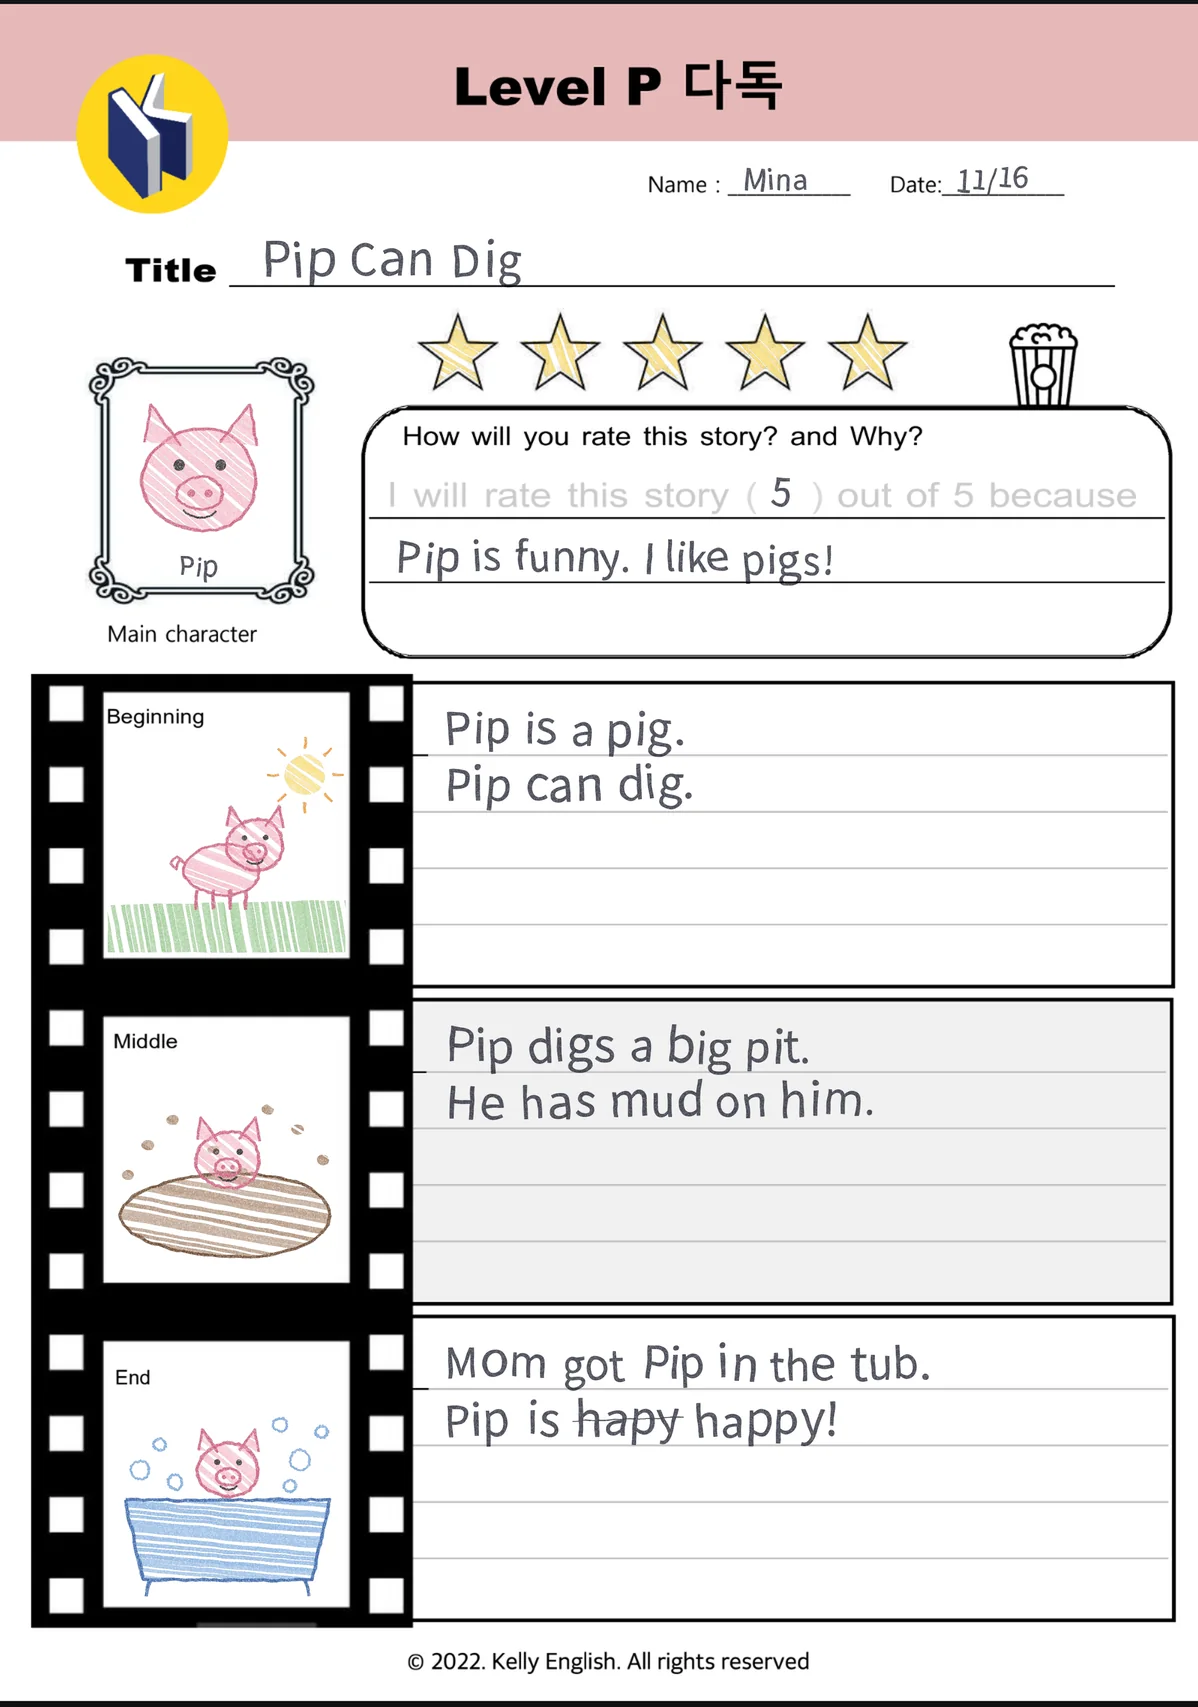
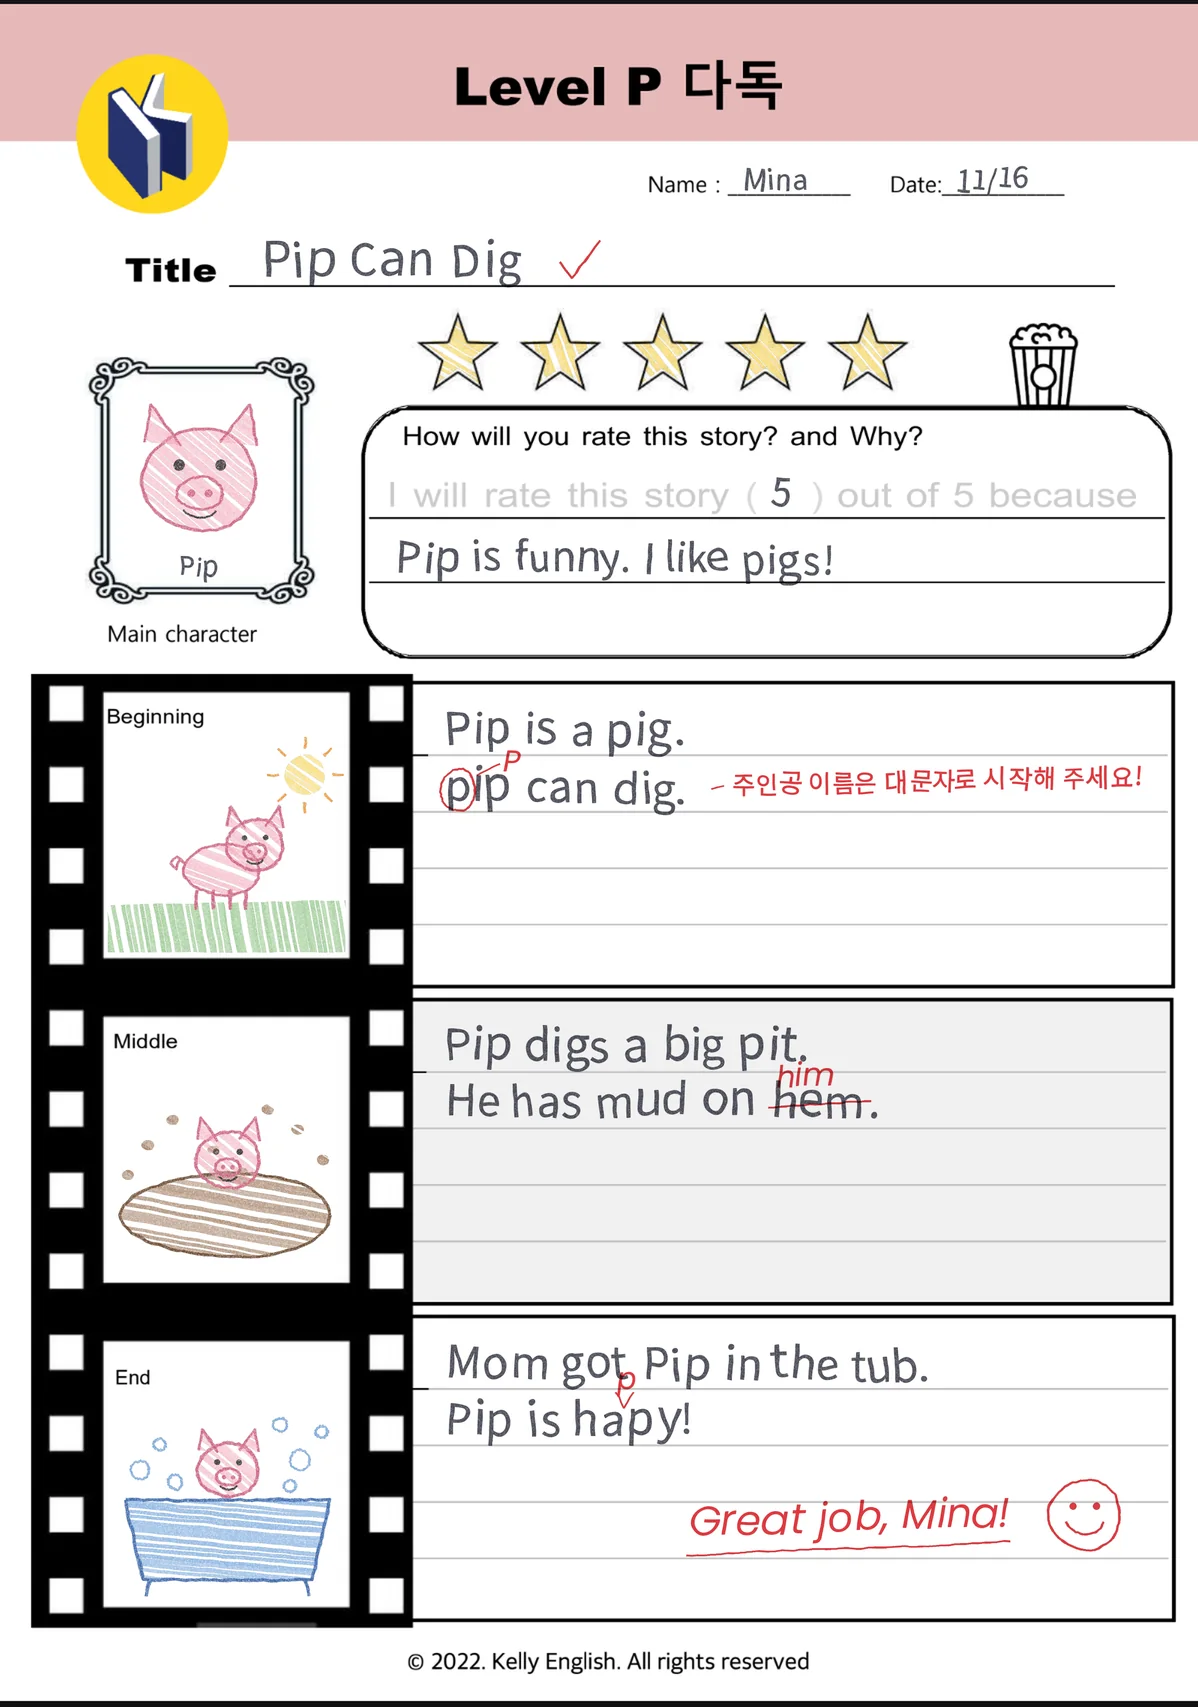
Update Level P class length and book report example
Show 60 minutes for lower grades alongside 90, use the owner's wording
for the report description, and replace the example with one that has
the teacher's red-pen corrections and praise.

Claude-Session: https://claude.ai/code/session_013jdryxY7pCTTzQasu2xv1W

diff --git a/index.html b/index.html
@@ -532,7 +532,7 @@ dialog::backdrop{background:rgba(15,20,48,.86)}
             <div><dt>읽기</dt><dd><strong>Phonics Story Books</strong><span>파닉스 스토리북</span></dd></div>
             <div><dt>쓰기</dt><dd><strong>Picture Summary</strong><span>그림 요약</span></dd></div>
             <div><dt>문법</dt><dd><span>Level A부터 시작합니다</span></dd></div>
-            <div><dt>시간</dt><dd><strong>90분</strong><span>1회 수업</span></dd></div>
+            <div><dt>시간</dt><dd><strong>60분</strong><span>초등 저학년</span><strong class="lv-or">· 90분</strong></dd></div>
           </dl>
           <ul class="ticks">
             <li>파닉스부터 스토리북까지, 원서로 재미있게 읽습니다.</li>
@@ -544,7 +544,7 @@ dialog::backdrop{background:rgba(15,20,48,.86)}
             <figcaption>
               <span class="report-tag">작성 예시</span>
               <strong>Level P 다독 북리포트</strong>
-              <span>켈리가 자체 제작한 북리포트입니다. 책을 읽고 주인공과 이야기의 처음 · 중간 · 끝을 그림과 문장으로 정리합니다.</span>
+              <span>켈리가 직접 제작한 북리포트입니다. Level P에서는 책 속 문장을 따라 쓰며 영어 문장의 형태와 표현에 익숙해집니다. 주인공을 확인하고 이야기의 처음·중간·끝을 정리하며, 읽은 내용을 순서대로 이해하고 정리하는 기초를 쌓습니다.</span>
               <button class="btn btn-line btn-sm" type="button" data-report="p">크게 보기</button>
             </figcaption>
           </figure>
